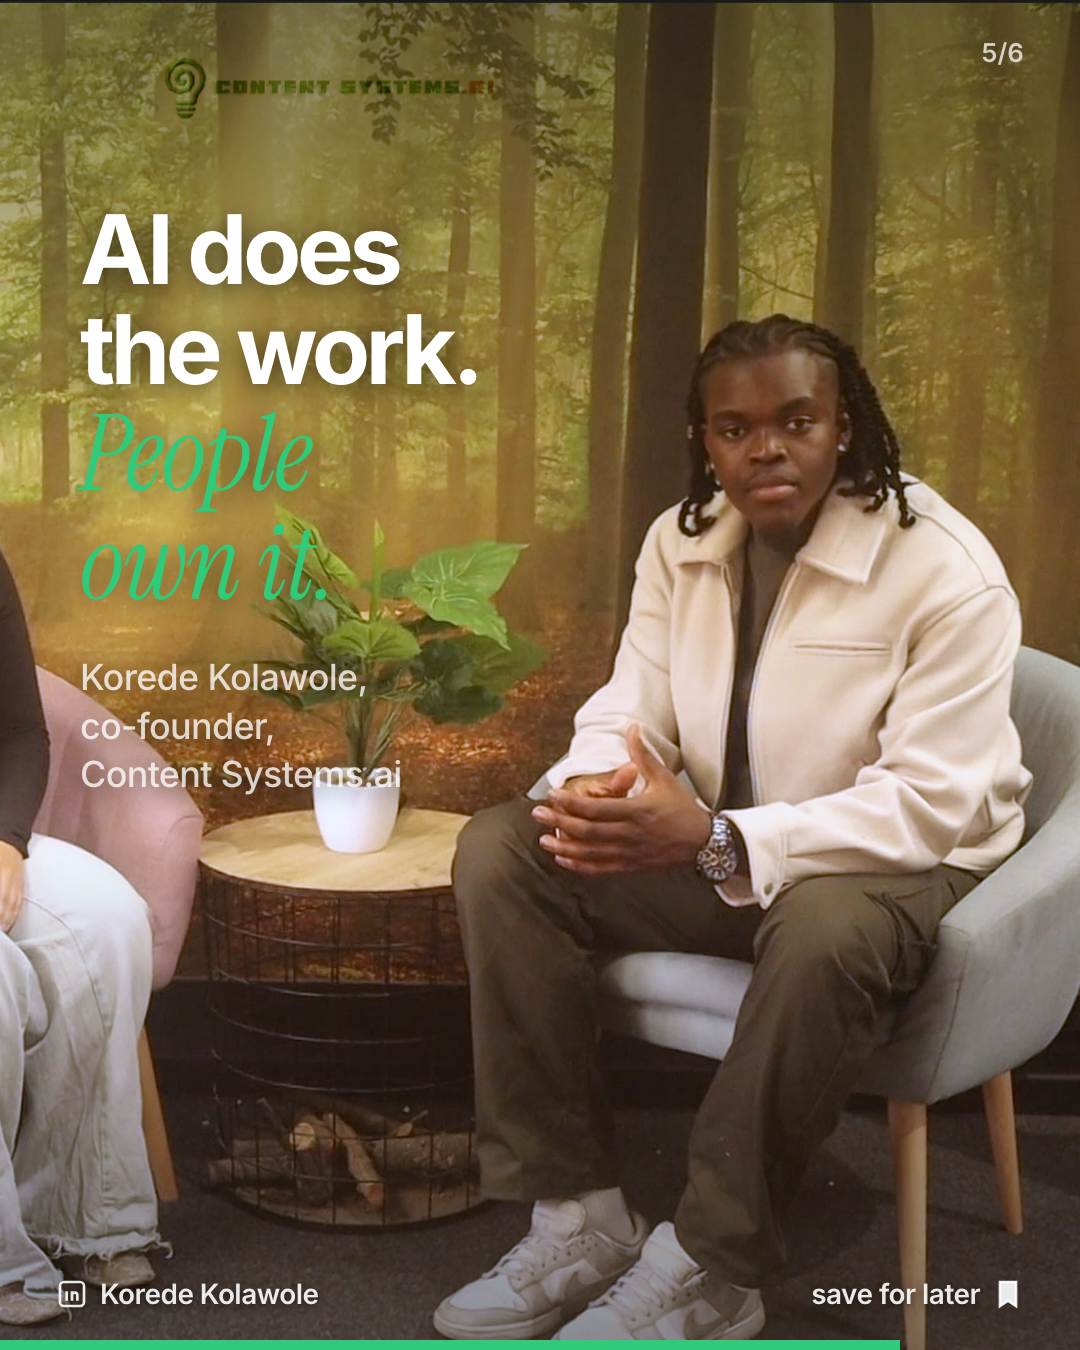
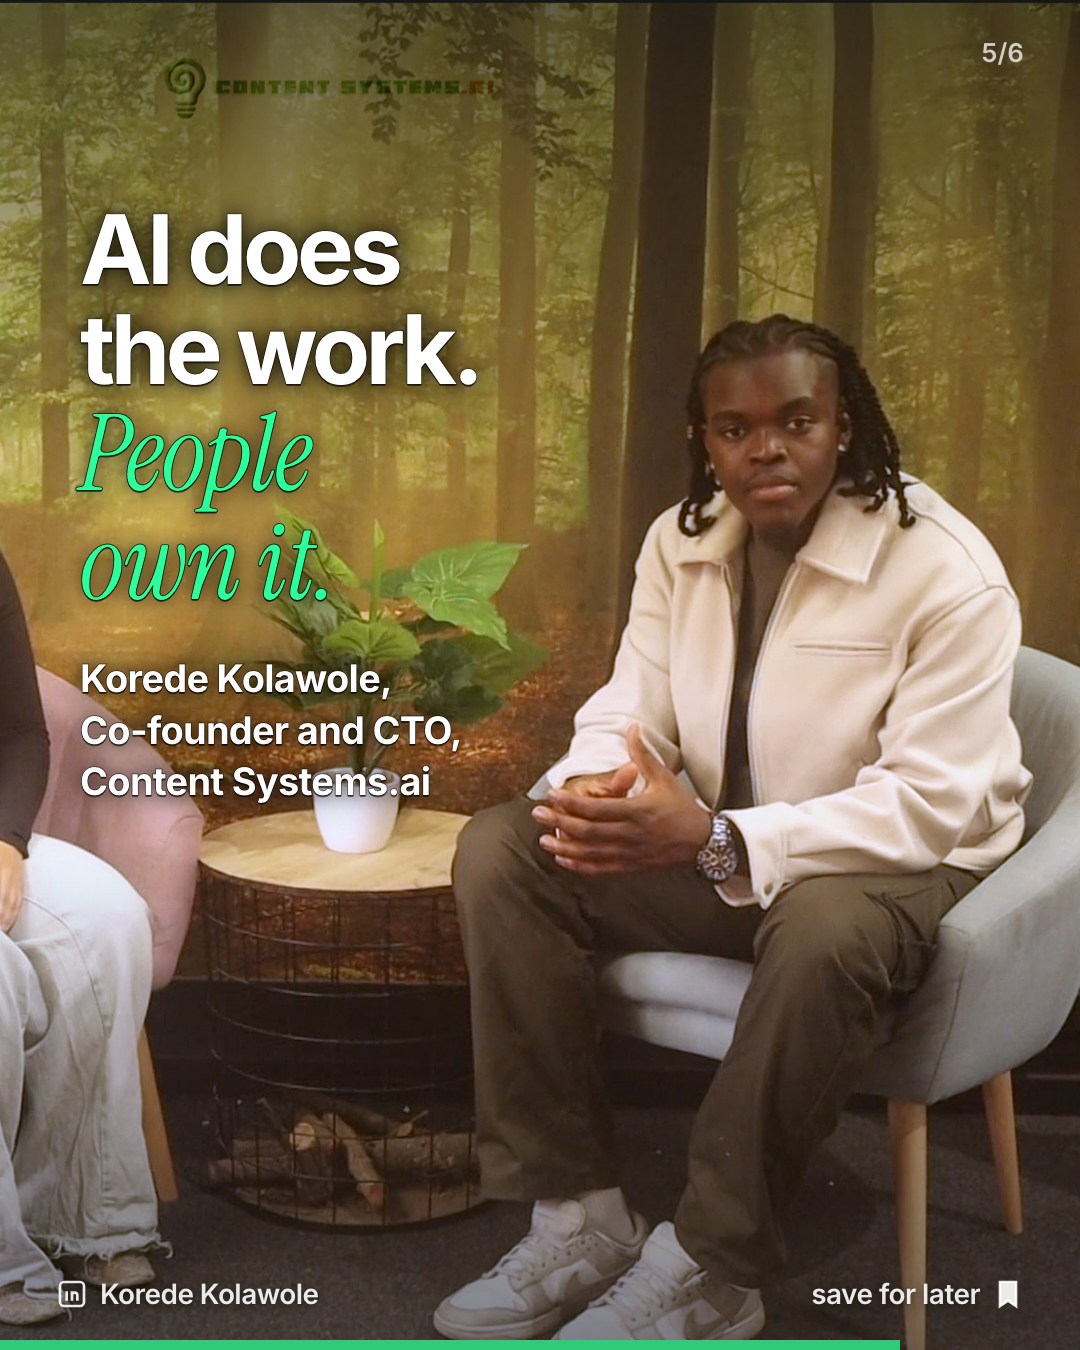
Quote slides: outline + glow, brighter accent; Co-founder and CTO

diff --git a/templates/photo-carousel/index.html b/templates/photo-carousel/index.html
@@ -49,7 +49,10 @@
   .ann b { color: #A8761B; font-weight: 700; }
   .prog { position: absolute; left: 0; bottom: 0; height: 10px; z-index: 8; background: var(--a); }
   .quote { position: absolute; left: 80px; right: 80px; z-index: 5; text-shadow: 0 4px 26px rgba(0,0,0,.55); font: 700 var(--qs, 84px)/1.04 'Inter'; letter-spacing: -0.05em; color: #fff; }
-  .quote small { display: block; margin-top: 34px; font: 500 36px/1.35 'Inter'; letter-spacing: -0.02em; color: rgba(255,255,255,.78); }
+  .quote small { display: block; margin-top: 34px; font: 650 38px/1.35 'Inter'; letter-spacing: -0.02em; color: #fff; }
+  /* readable on busy photos (Korede 2026-10-24): dark outline + glow on every quote line, brighter accent */
+  .quote, .quote small { -webkit-text-stroke: 1.5px rgba(8,12,9,.55); paint-order: stroke fill; text-shadow: 0 2px 0 rgba(0,0,0,.55), 0 0 18px rgba(0,0,0,.75), 0 0 42px rgba(0,0,0,.5); }
+  .quote .k { filter: brightness(1.35) saturate(1.15); -webkit-text-stroke: 2px rgba(8,12,9,.7); }
   .text { font: 500 46px/1.3 'Inter'; letter-spacing: -0.03em; color: #fff; }
   .text p + p { margin-top: 26px; }
   .text mark { background: none; color: var(--a); font-weight: 700; }
